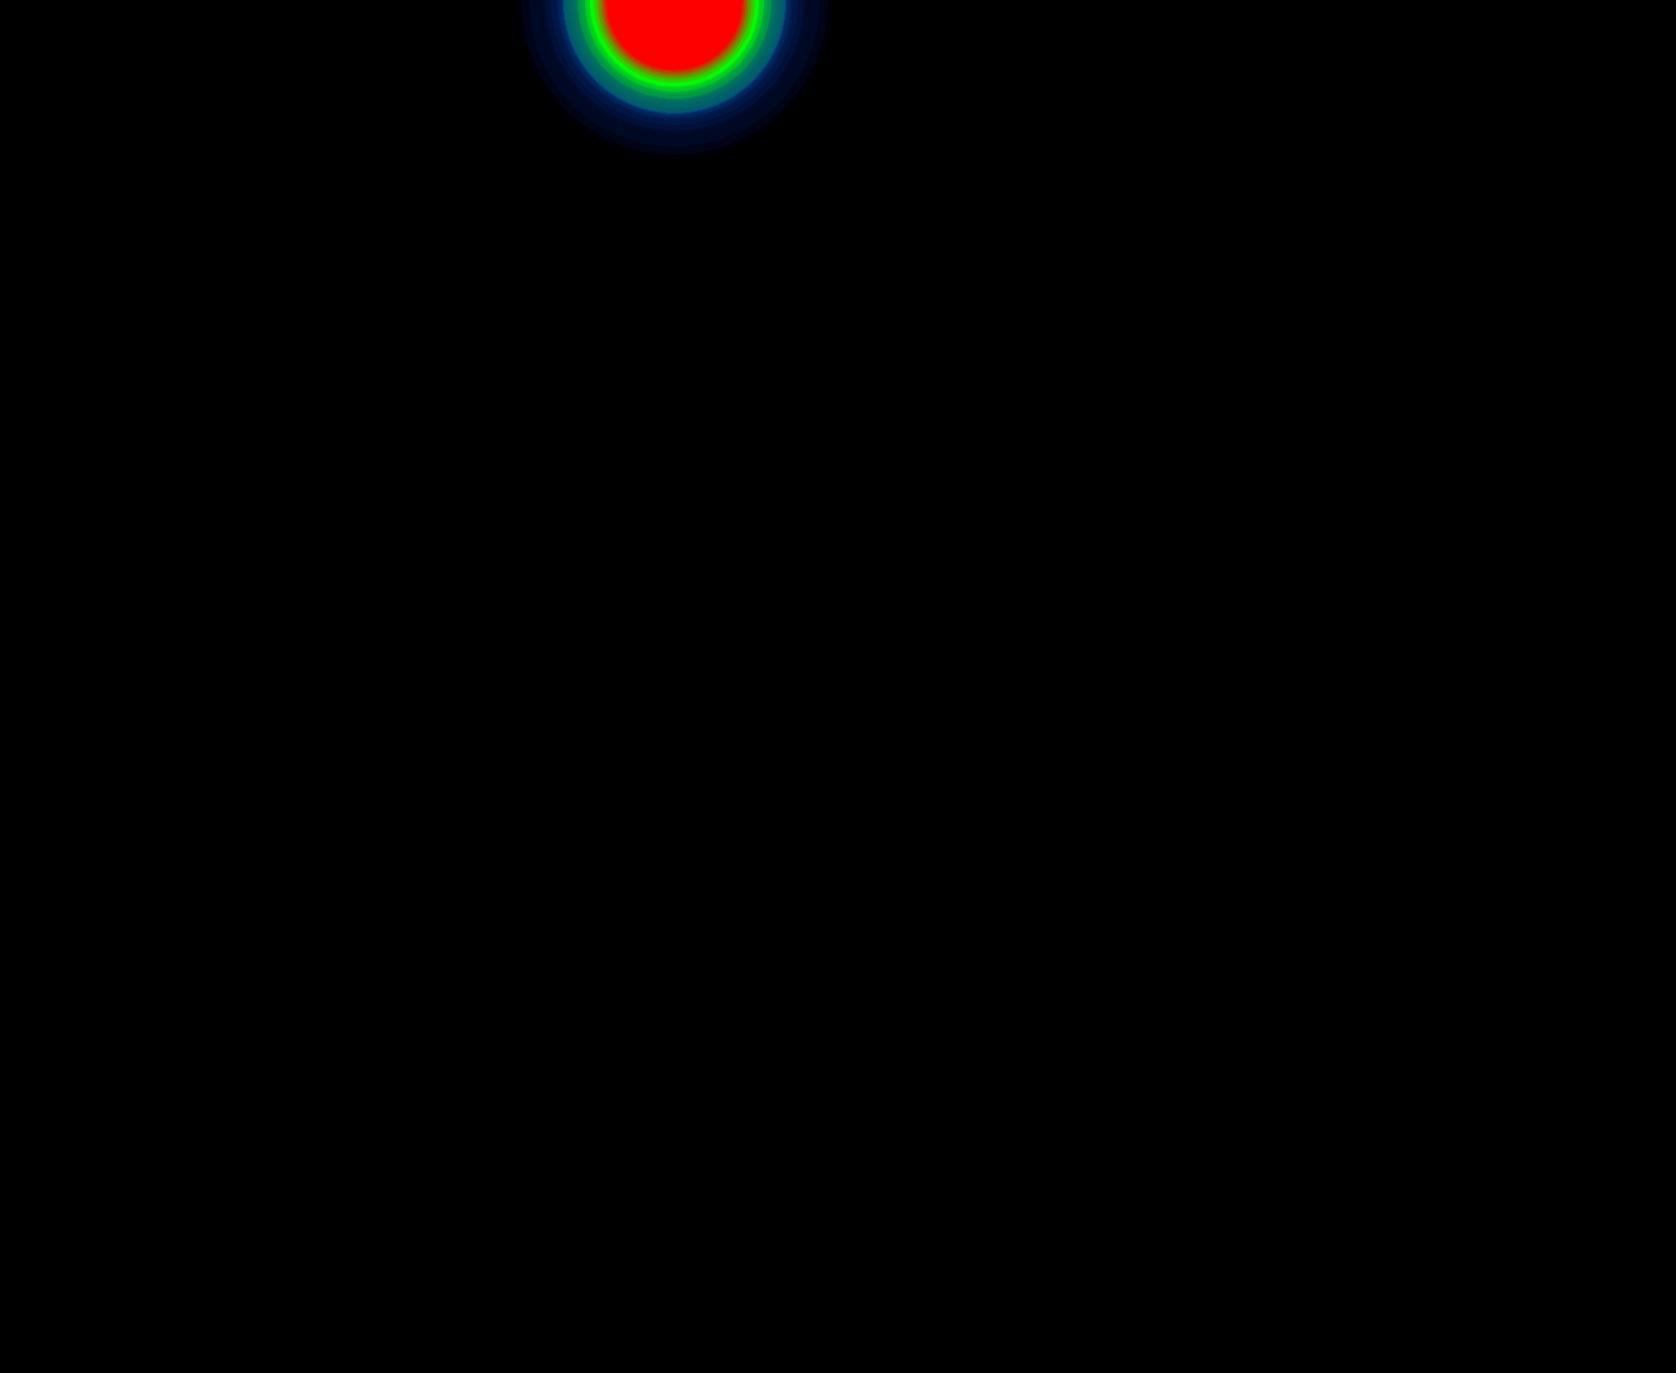
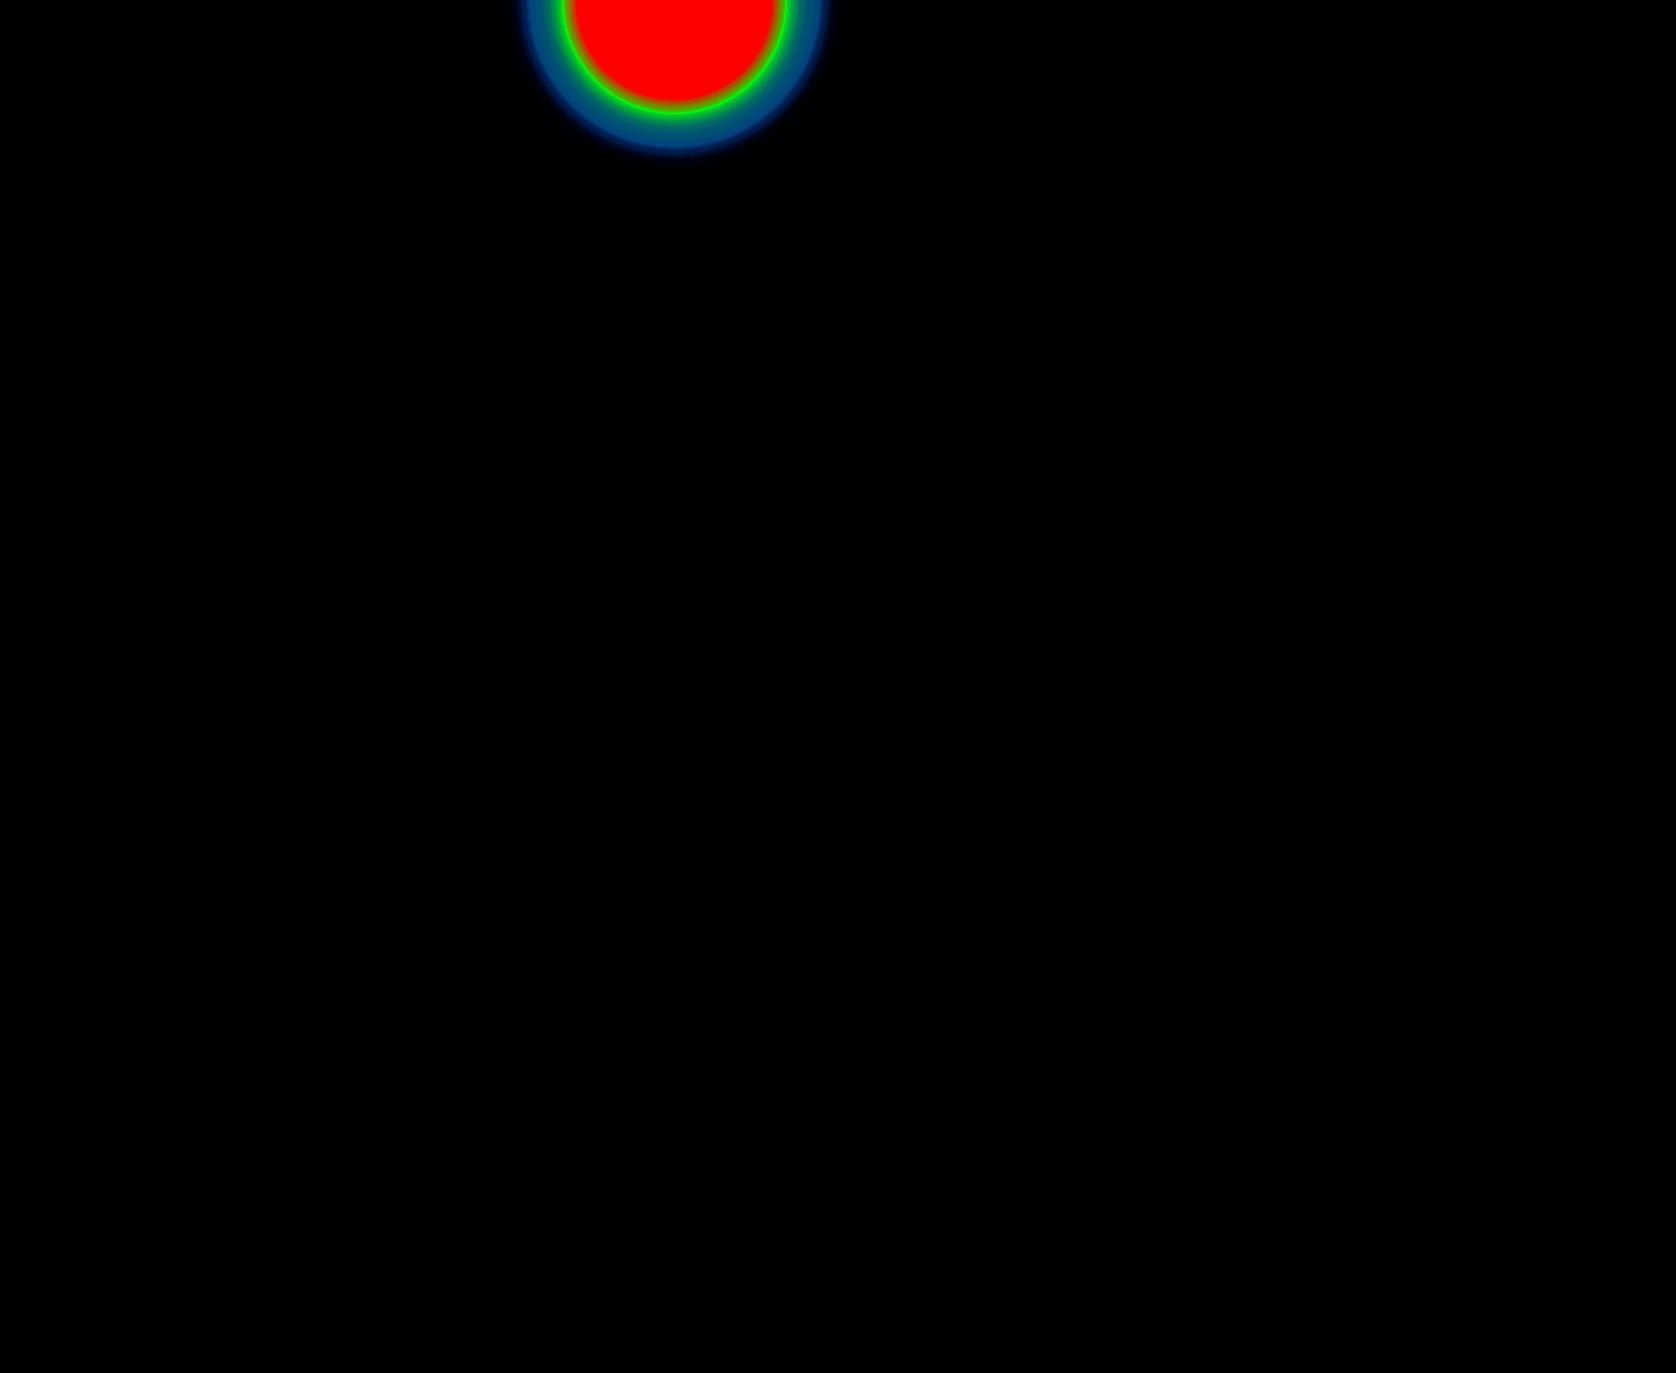
feat: make overlay work
needs optimization and to flip some coordinates?

Changed region(s): [[0.3103, 0.0, 0.4964, 0.1224]]

diff --git a/Functional-System/Heatmap.py b/Functional-System/Heatmap.py
@@ -38,10 +38,10 @@ def z_radius(s):
     Define the maxim radius for which `z_amp` is non-zero
     """
     if (s > 5.3):
-        print(f'R limilted, s = {s}')
+        # print(f'R limilted, s = {s}')
         return int(225)
     else:
-        print(f's = {s}')
+        # print(f's = {s}')
         mag = 0.3 * 255/(s**2)
         # print(s, mag)
         radius = math.sqrt(np.abs((2*(30*s)**2) * math.log(mag)))
@@ -85,26 +85,26 @@ def plotPoints(df, mat):
             # out.increment_rgb(x, y, z_const, z_const, z_const)
             mat[x,y] += z_const
 
-def overlayOnBackground():
+def overlayOnBackground(mat, color):
     c = 0.5
     cutoff = 40
-    color = Image.open("Color.jpg")
-    out = Image.open("Gray.jpg")
-    back = Image.open("RoomLayout1.jpg")
-    h = 1000
-    w = 1000
+    # color = Image.open("Color.jpg")
+    # out = Image.open("Gray.jpg")
+    back = Image.open("images/RoomLayout1.jpg")
     for y in range(h):
         for x in range(w):
             rbase, gbase, bbase = back.getpixel((x, y))
-            threshold, g, b = out.getpixel((x, y))
-            rn, gn, bn = color.getpixel((x, y))
+            # threshold, g, b = out.getpixel((x, y))
+            threshold = mat[x,y] #
+            colorPix = color.get_pixel(x, y)
             if threshold < cutoff:
                 c = 0.5 * (threshold/cutoff)**1.5
-            red = int((rbase + c * rn) / (1 + c))
-            green = int((gbase + c * gn) / (1 + c))
-            blue = int((bbase + c * bn) / (1 + c))
+            red = int((rbase + c * colorPix.red) / (1 + c))
+            green = int((gbase + c * colorPix.green) / (1 + c))
+            blue = int((bbase + c * colorPix.blue) / (1 + c))
             back.putpixel((x, y), (red, green, blue))
     back.show()
+    return back # return new image
 
 def main():
     args = sys.argv[1:]
@@ -117,7 +117,7 @@ def main():
     points_df = getPositions.pullData(iDB_client)
 
     mat = np.zeros((w,h))
-    out = SimpleImage.blank(w,h, 'black') # create an empty image
+    # out = SimpleImage.blank(w,h, 'black') # create an empty image
     
     points_df.apply(lambda x: plotPoints(x, mat), axis = 1)
 
@@ -133,6 +133,9 @@ def main():
                 out.set_pix(x, y, new_pix)
     # out.show() # programaticallly save it instead
     out.save('images/DWM_Test1.jpg')
+
+    #overlay with background image
+    overlayOnBackground(mat, out)
 
 if __name__ == '__main__':
     main()

diff --git a/Functional-System/pullPos_InfluxDB.py b/Functional-System/pullPos_InfluxDB.py
@@ -11,7 +11,7 @@ import pandas as pd
 query = """SELECT *
 FROM "mqtt_consumer"
 WHERE
-time >= now() - interval '5 minutes'
+time >= timestamp '2023-03-07T23:00:00.000Z' AND time <= timestamp '2023-03-07T23:20:00.000Z'
 AND
 ("position_x" IS NOT NULL)"""
 
